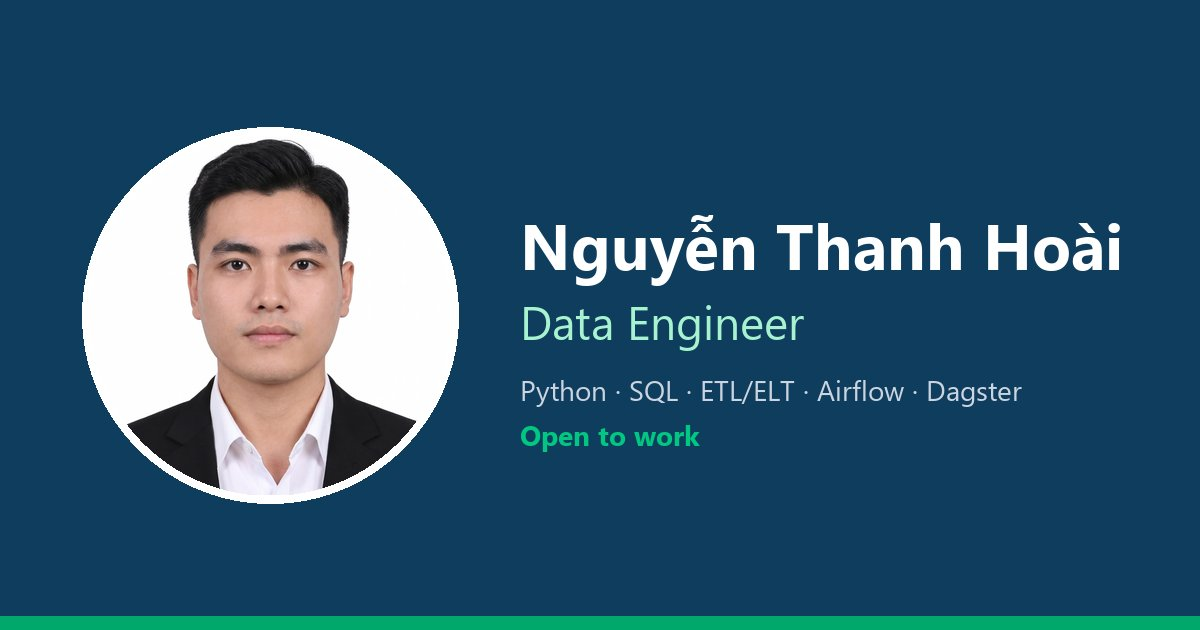
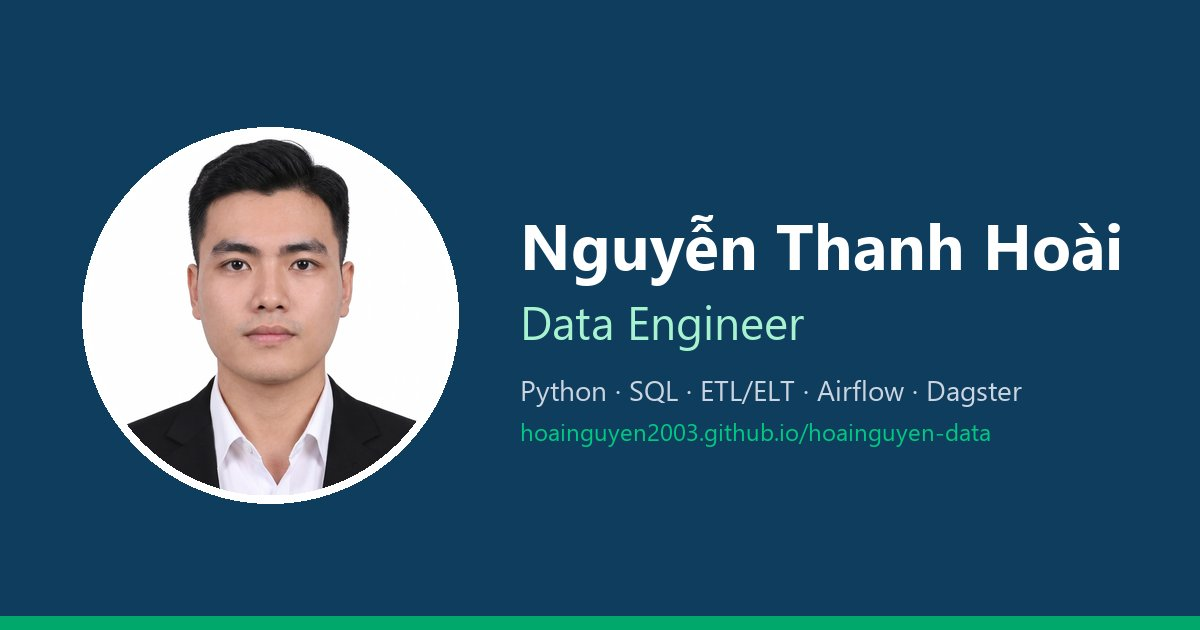
feat: remove open-to-work status, add 3 scholarship screenshots to gallery
Screenshots cropped to title + result table; semester GPA blacked out. OG image regenerated without status line.

Changed region(s): [[0.4317, 0.6635, 0.8325, 0.7238]]

diff --git a/index.html b/index.html
@@ -14,7 +14,7 @@
     })();
   </script>
   <title>Nguyễn Thanh Hoài — Data Engineer | CV</title>
-  <meta name="description" content="Nguyễn Thanh Hoài — Data Engineer (~2 năm kinh nghiệm): Python, SQL, ETL/ELT, Airflow, Dagster, DuckDB. Kỹ sư Khoa học Dữ liệu loại Giỏi, đang học Thạc sĩ KHMT. Open to work.">
+  <meta name="description" content="Nguyễn Thanh Hoài — Data Engineer (~2 năm kinh nghiệm): Python, SQL, ETL/ELT, Airflow, Dagster, DuckDB. Kỹ sư Khoa học Dữ liệu loại Giỏi, đang học Thạc sĩ KHMT.">
   <meta name="author" content="Nguyễn Thanh Hoài">
   <meta name="theme-color" content="#0f3d5e">
   <link rel="canonical" href="https://hoainguyen2003.github.io/hoainguyen-data/">
@@ -22,7 +22,7 @@
 
   <meta property="og:type" content="profile">
   <meta property="og:title" content="Nguyễn Thanh Hoài — Data Engineer">
-  <meta property="og:description" content="Data Engineer · Python · SQL · ETL/ELT · Airflow · Dagster · Open to work">
+  <meta property="og:description" content="Data Engineer · Python · SQL · ETL/ELT · Airflow · Dagster">
   <meta property="og:url" content="https://hoainguyen2003.github.io/hoainguyen-data/">
   <meta property="og:image" content="https://hoainguyen2003.github.io/hoainguyen-data/assets/img/og-image.jpg">
   <meta property="og:image:width" content="1200">
@@ -92,7 +92,6 @@
                alt="Ảnh chân dung Nguyễn Thanh Hoài" data-alt-vi="Ảnh chân dung Nguyễn Thanh Hoài" data-alt-en="Portrait of Nguyen Thanh Hoai">
         </picture>
         <div class="hero__info">
-          <p class="badge badge--open"><span class="badge__pulse" aria-hidden="true"></span><span lang="vi">Đang tìm việc</span><span lang="en">Open to work</span></p>
           <h1 id="hero-name"><span lang="vi">Nguyễn Thanh Hoài</span><span lang="en">Nguyen Thanh Hoai</span></h1>
           <p class="hero__title">Data Engineer</p>
           <p class="hero__tagline">
@@ -372,6 +371,33 @@
                 <figcaption><span lang="vi">Học bổng 100% học phí Thạc sĩ (học kỳ đầu)</span><span lang="en">100% Master's tuition scholarship (first semester)</span></figcaption>
               </figure>
             </li>
+            <li>
+              <figure class="gallery__item">
+                <a class="gallery__btn" href="assets/img/achievement-scholarship-2023-s1.webp">
+                  <img src="assets/img/thumbs/achievement-scholarship-2023-s1.webp" width="480" height="181" loading="lazy" decoding="async"
+                       alt="Kết quả tra cứu học bổng 100% học kỳ 1 năm học 2023–2024" data-alt-vi="Kết quả tra cứu học bổng 100% học kỳ 1 năm học 2023–2024" data-alt-en="Scholarship lookup result: 100%, semester 1, 2023–2024">
+                </a>
+                <figcaption><span lang="vi">Học bổng khuyến khích học tập 100% — HK1 2023–2024</span><span lang="en">Academic merit scholarship 100% — Semester 1, 2023–2024</span></figcaption>
+              </figure>
+            </li>
+            <li>
+              <figure class="gallery__item">
+                <a class="gallery__btn" href="assets/img/achievement-scholarship-2023-s2.webp">
+                  <img src="assets/img/thumbs/achievement-scholarship-2023-s2.webp" width="480" height="190" loading="lazy" decoding="async"
+                       alt="Kết quả tra cứu học bổng 50% học kỳ 2 năm học 2023–2024" data-alt-vi="Kết quả tra cứu học bổng 50% học kỳ 2 năm học 2023–2024" data-alt-en="Scholarship lookup result: 50%, semester 2, 2023–2024">
+                </a>
+                <figcaption><span lang="vi">Học bổng khuyến khích học tập 50% — HK2 2023–2024</span><span lang="en">Academic merit scholarship 50% — Semester 2, 2023–2024</span></figcaption>
+              </figure>
+            </li>
+            <li>
+              <figure class="gallery__item">
+                <a class="gallery__btn" href="assets/img/achievement-scholarship-2024-s1.webp">
+                  <img src="assets/img/thumbs/achievement-scholarship-2024-s1.webp" width="480" height="199" loading="lazy" decoding="async"
+                       alt="Kết quả tra cứu học bổng 70% học kỳ 1 năm học 2024–2025" data-alt-vi="Kết quả tra cứu học bổng 70% học kỳ 1 năm học 2024–2025" data-alt-en="Scholarship lookup result: 70%, semester 1, 2024–2025">
+                </a>
+                <figcaption><span lang="vi">Học bổng khuyến khích học tập 70% — HK1 2024–2025</span><span lang="en">Academic merit scholarship 70% — Semester 1, 2024–2025</span></figcaption>
+              </figure>
+            </li>
           </ul>
         </section>
 
@@ -398,7 +424,6 @@
         <section class="card" aria-labelledby="contact-h">
           <h2 class="card__title" id="contact-h"><span lang="vi">Liên hệ</span><span lang="en">Contact</span></h2>
           <ul class="contact-list">
-            <li><span class="contact-list__label"><span lang="vi">Trạng thái</span><span lang="en">Status</span></span><span class="status-open"><span lang="vi">Đang tìm việc — sẵn sàng nhận vị trí Data Engineer</span><span lang="en">Open to work — available for Data Engineer roles</span></span></li>
             <li><span class="contact-list__label">Email</span><a href="mailto:thanhhoai2244@gmail.com">thanhhoai2244@gmail.com</a></li>
             <li><span class="contact-list__label">GitHub</span><a href="https://github.com/HoaiNguyen2003" target="_blank" rel="noopener">github.com/HoaiNguyen2003</a></li>
             <li><span class="contact-list__label">LinkedIn</span><a href="https://www.linkedin.com/in/thanhhoai3737" target="_blank" rel="noopener">linkedin.com/in/thanhhoai3737</a></li>

diff --git a/assets/css/style.css b/assets/css/style.css
@@ -124,7 +124,7 @@ html[data-lang="en"] [lang="vi"] { display: none !important; }
   border: 5px solid var(--c-surface); border-radius: var(--radius); box-shadow: var(--shadow);
   background: var(--c-chip);
 }
-.hero__info { padding-top: 18px; min-width: 0; }
+.hero__info { padding-top: 26px; min-width: 0; }
 .hero h1 { font-size: clamp(1.8rem, 3.6vw, 2.5rem); font-weight: 700; }
 .hero__title { font-size: 1.2rem; font-weight: 600; color: var(--c-accent-ink); margin: 4px 0 8px; }
 .hero__tagline { color: var(--c-muted); max-width: 62ch; }
@@ -132,13 +132,6 @@ html[data-lang="en"] [lang="vi"] { display: none !important; }
 .hero__meta li { display: inline-flex; align-items: center; gap: 6px; }
 .hero__actions { display: flex; flex-wrap: wrap; gap: 10px; }
 
-.badge {
-  display: inline-flex; align-items: center; gap: 8px; margin: 0 0 8px;
-  padding: 4px 12px; border-radius: 999px; font-size: .82rem; font-weight: 600;
-}
-.badge--open { background: #e7f8f0; color: var(--c-accent-ink); border: 1px solid #b7ebd3; }
-.badge__pulse { width: 8px; height: 8px; border-radius: 50%; background: var(--c-accent); box-shadow: 0 0 0 0 rgba(0, 168, 107, .6); animation: pulse 2s infinite; }
-@keyframes pulse { 70% { box-shadow: 0 0 0 8px rgba(0, 168, 107, 0); } 100% { box-shadow: 0 0 0 0 rgba(0, 168, 107, 0); } }
 
 .stats {
   display: grid; grid-template-columns: repeat(4, 1fr); margin: 0;
@@ -149,7 +142,6 @@ html[data-lang="en"] [lang="vi"] { display: none !important; }
 .stat dt { font-size: .8rem; color: var(--c-muted); text-transform: uppercase; letter-spacing: .04em; }
 .stat dd { margin: 2px 0 0; font-size: 1.5rem; font-weight: 700; color: var(--c-primary); }
 .stat dd small { font-size: .55em; font-weight: 600; color: var(--c-muted); }
-.status-open { color: var(--c-accent-ink); font-weight: 600; }
 
 /* 6. Layout */
 .layout { display: grid; grid-template-columns: 320px minmax(0, 1fr); gap: var(--space); margin-top: var(--space); align-items: start; }
@@ -301,7 +293,7 @@ html[data-lang="en"] [lang="vi"] { display: none !important; }
   :root { --space: 10px; --shadow: none; }
   html { font-size: 11px; }
   body { background: #fff; font-size: 10.5px; line-height: 1.45; color: #000; }
-  .topbar, .skip-link, .hero__actions, .hero__cover, #gallery, .lightbox, .note, .badge__pulse, .project__link,
+  .topbar, .skip-link, .hero__actions, .hero__cover, #gallery, .lightbox, .note, .project__link,
   .competencies, .sidebar .card:last-child, .tags, .project__kind, .hero__tagline { display: none !important; }
   h2, h3, h4 { break-after: avoid; }
   .contact-list li { font-size: 10px; }
